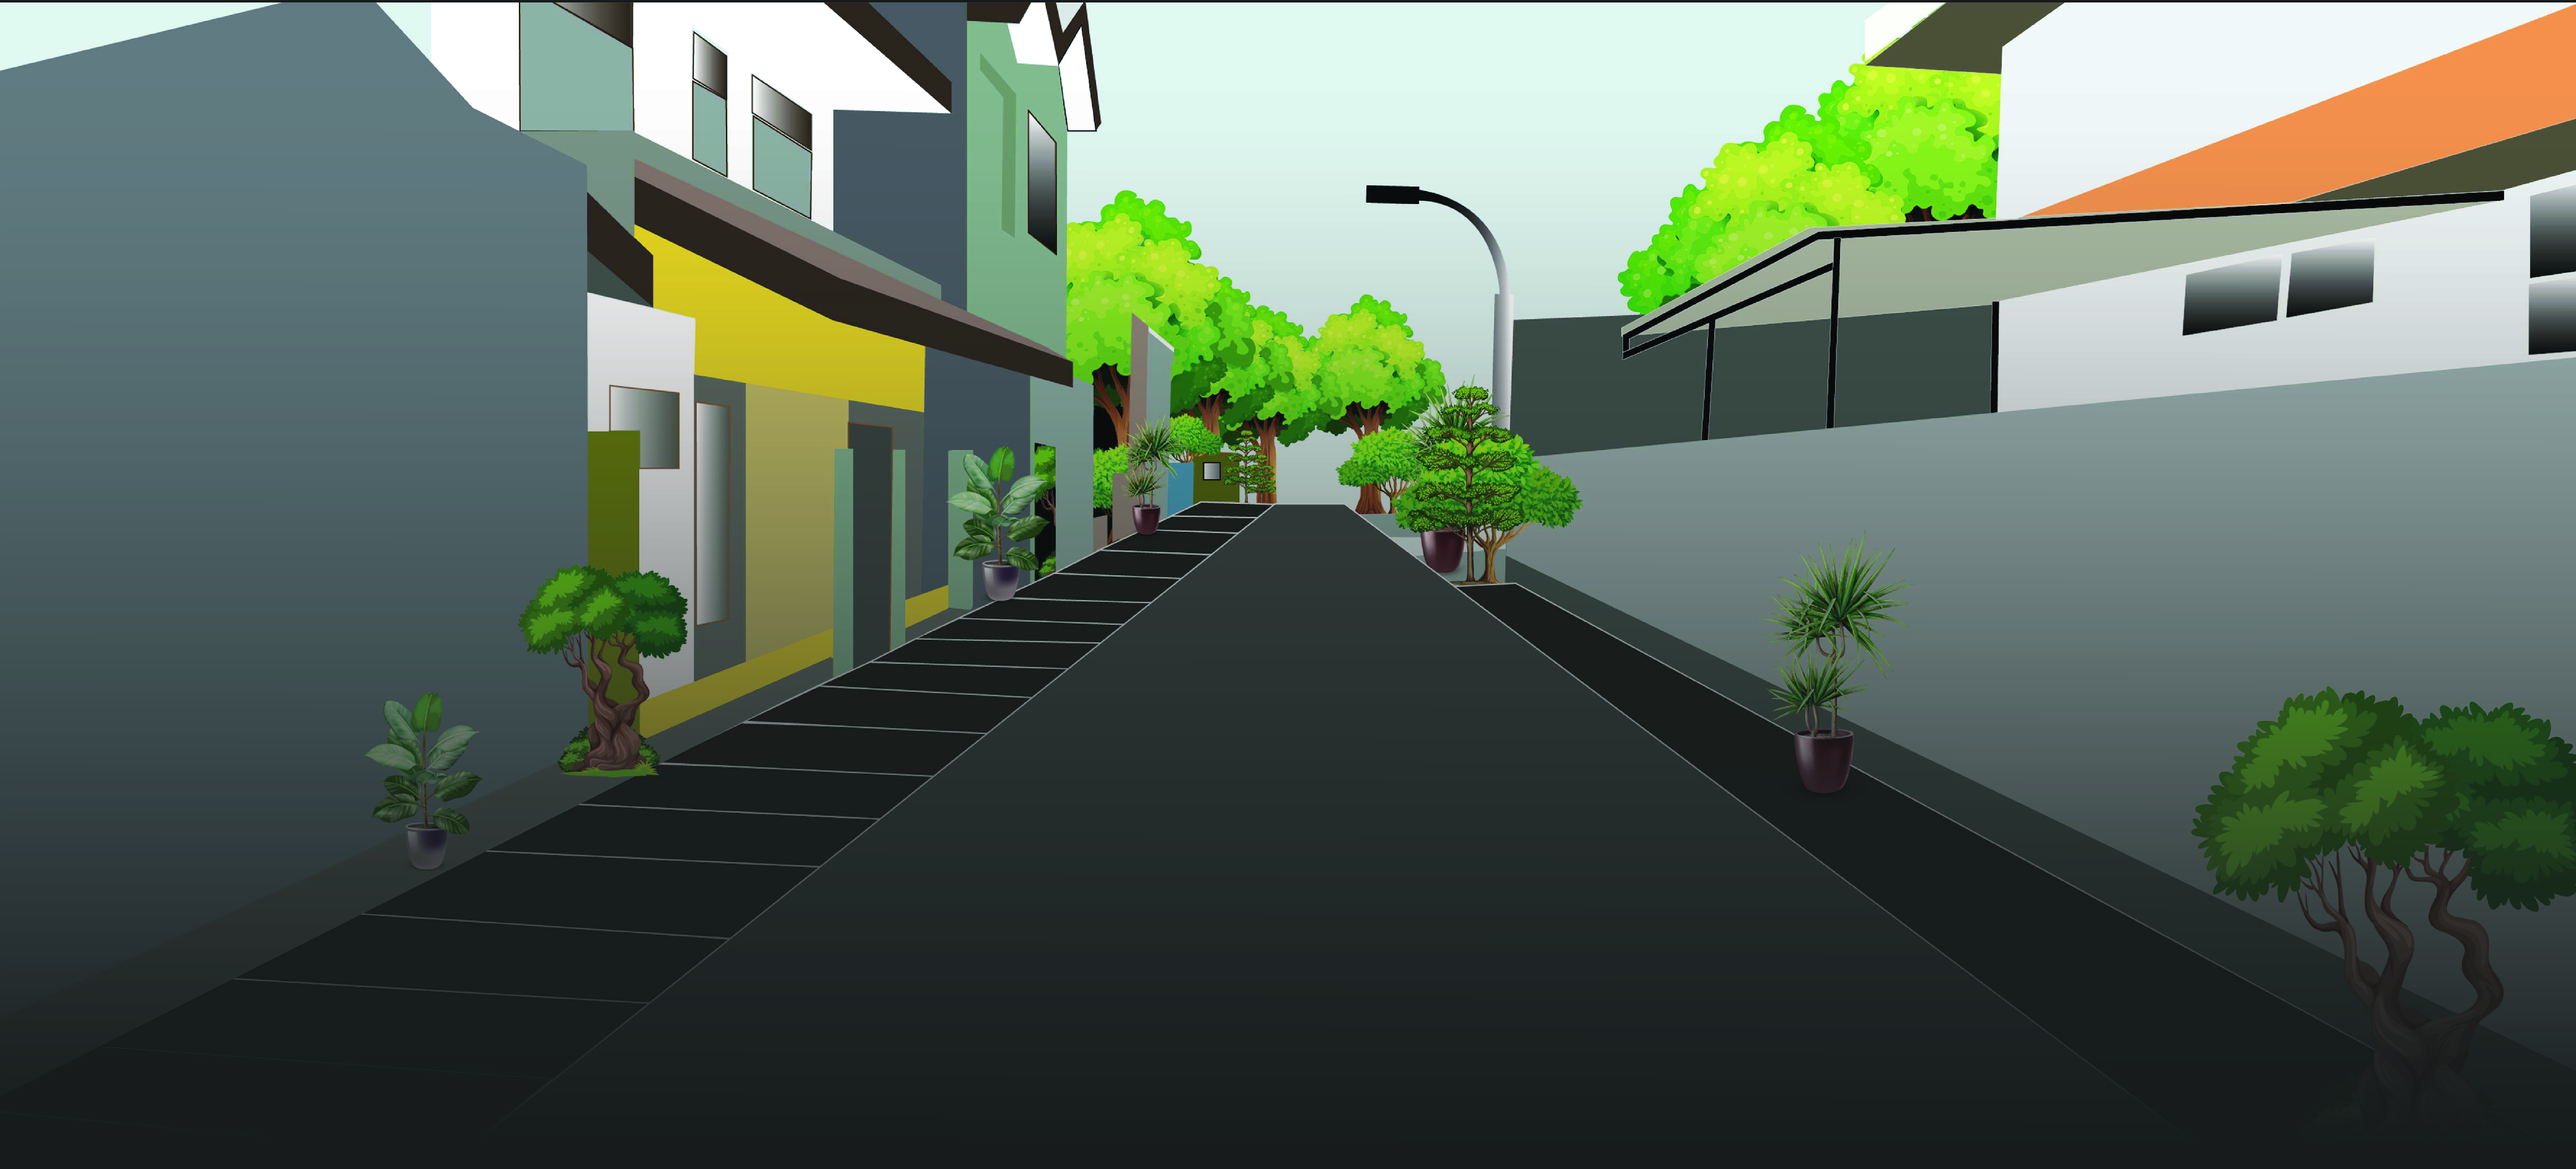
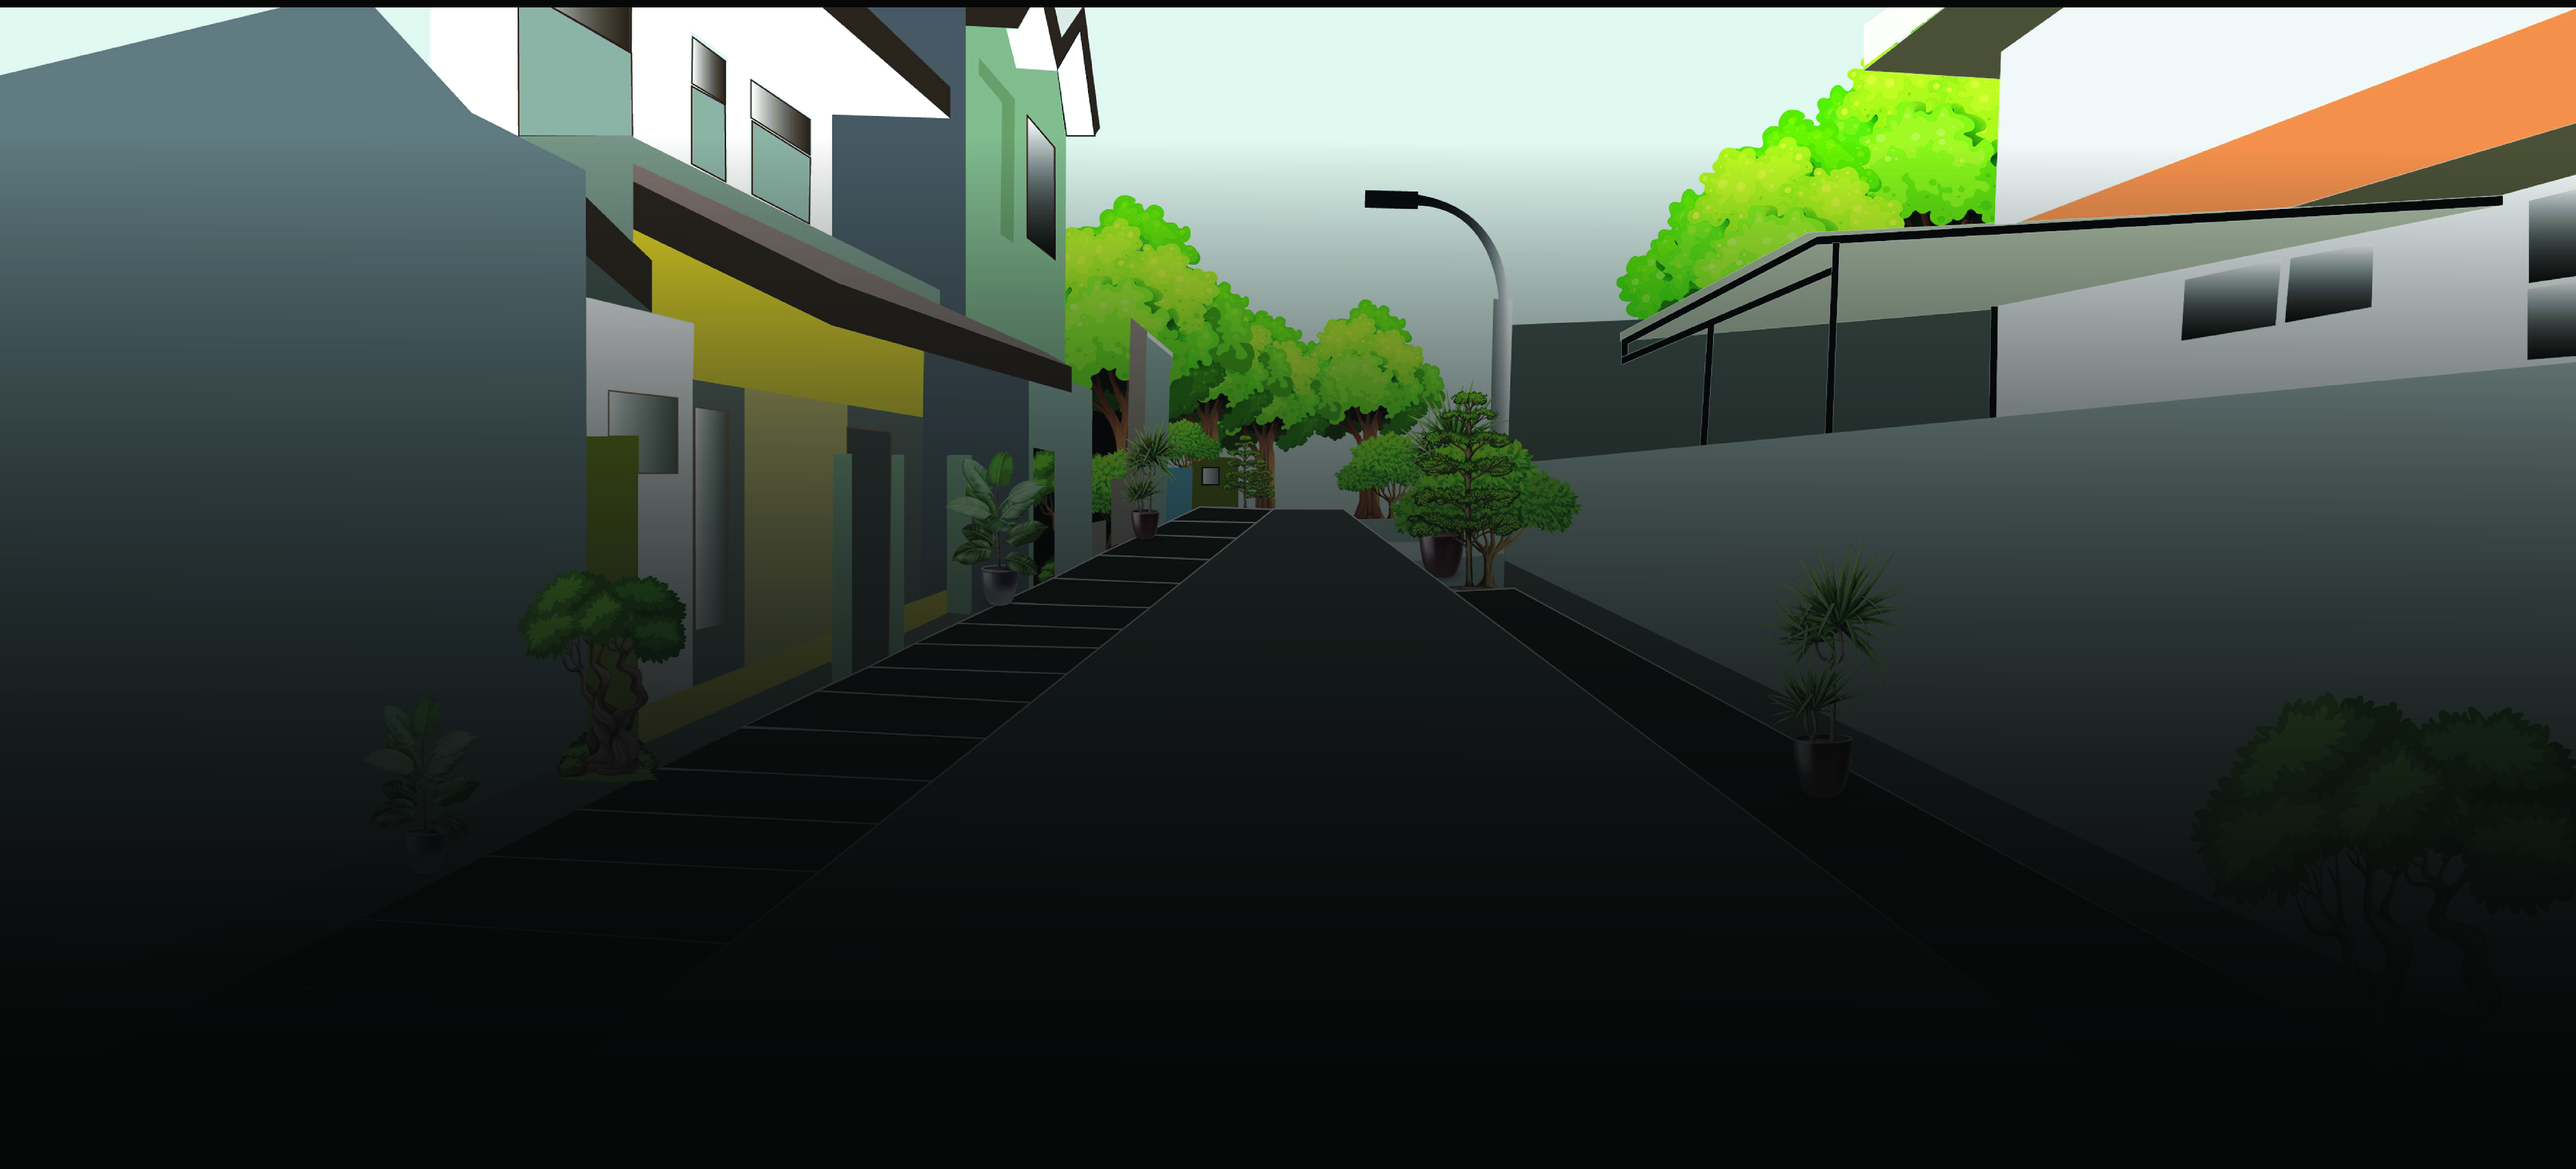
perubahan box-ctn

diff --git a/index.html b/index.html
@@ -134,16 +134,16 @@
       <img src="/img/assets/Kota-bg.jpeg" alt="" />
       <div class="slider-content">
         <h2 class="slider-title">Media 08<span> Kelapa Dua</span></h2>
-        <p class="slider-description" data-aos="zoom-in" data-aos-duration="1000" data-aos-delay="300">"Marhabat ya Ramadhan"<br> Bulan Penuh Berkah dan Ampunan</p>
-        <a class="slider-action" href="https://www.youtube.com/channel/UC41XqwNU6eP4PJdziPCVT2Q">Youtube @kosongdelapan102</a>
+        <p class="slider-description" data-aos="zoom-in" data-aos-duration="1000" data-aos-delay="300">"Marhabat ya Ramadhan<br> Bulan Penuh Berkah dan Ampunan</p>
+        <a class="slider-action" href="https://www.beritakosongdelapan.web.id/">www.beritakosongdelapan.web.id</a>
       </div>
     </div>
     <div class="slider-item">
       <img src="/img/assets/Rausin-bg.jpeg" alt="" />
       <div class="slider-content">
         <h2 class="slider-title">Media 08<span> Kelapa Dua</span></h2>
-        <p class="slider-description" data-aos="zoom-in" data-aos-duration="1000" data-aos-delay="300">Kampung Kite Kalo Bukan Kite<br> Nyang Ngurusin Siape Lagi?</p>
-        <a class="slider-action" href="https://www.youtube.com/channel/UC41XqwNU6eP4PJdziPCVT2Q">Youtube @kosongdelapan102</a>
+        <p class="slider-description" data-aos="zoom-in" data-aos-duration="1000" data-aos-delay="300">Kampung Kite Kalo Bukan Kite<br> Nyang Ngurusin Siape Lagi ?</p>
+        <a class="slider-action" href="https://docs.google.com/forms/d/1AQiVj2VR8t79Js-C5-ubOshv2Y3rsXA7bs-vF5RpsVQ/viewform?edit_requested=true">Form Pelayanan Warga RW 08</a>
       </div>
     </div>
   </div>
@@ -151,7 +151,7 @@
 
        <!-- Berita Utama start -->
        <section id="about" class="about">
-        <h2 data-aos="fade-down" data-aos-easing="linear" data-aos-duration="1500"><span>Berita</span> Utama </h2> 
+        <h2 data-aos="zoom-in" data-aos-duration="2000"><span>Berita</span> Utama </h2> 
 
         <div class="row">
         <div class="about-img">
@@ -171,7 +171,7 @@
           <br>
           </div>
           <div class="about-img">
-          <div class="row">
+          <div class="row"data-aos="zoom-in" data-aos="zoom-in" data-aos-duration="2000">
             <link rel="stylesheet" href="style.css">
             <div class="wrapper">
               <div class="slide">
@@ -179,10 +179,10 @@
                 <span id="slide-2"></span>
                 <span id="slide-3"></span>
                 <span id="slide-4"></span>
-                <div class="images"><img src="img/products/2A.jpg" alt="Berita Utama" data-aos="zoom-in" data-aos-duration="2000">
-                <img src="img/products/2B.jpg" alt="Berita Utama" data-aos="zoom-in" data-aos-duration="2000">
-                <img src="img/products/2C.jpg" alt="Berita Utama" data-aos="zoom-in"data-aos="zoom-in" data-aos-duration="2000">
-                <img src="img/products/2D.jpg" alt="Berita Utama" data-aos="zoom-in" data-aos="zoom-in" data-aos-duration="2000">
+                <div class="images"><img src="img/products/2A.jpg" alt="Berita Utama">
+                <img src="img/products/2B.jpg" alt="Berita Utama">
+                <img src="img/products/2C.jpg" alt="Berita Utama">
+                <img src="img/products/2D.jpg" alt="Berita Utama">
             </div>
           </div>
               
@@ -491,7 +491,6 @@
             <a href="https://www.instagram.com/beritakosongdelapan/"><i data-feather="instagram"></i></a>
             <a href="https://www.youtube.com/channel/UC41XqwNU6eP4PJdziPCVT2Q"><i data-feather="youtube"></i></a>
             <a href="https://www.facebook.com/syariphi102/"><i data-feather="facebook"></i></a>
-            <a href="https://docs.google.com/forms/d/1AQiVj2VR8t79Js-C5-ubOshv2Y3rsXA7bs-vF5RpsVQ/viewform?edit_requested=true"><i data-feather="book-open"></i></a>
 
           </div>
     

diff --git a/css/style.css b/css/style.css
@@ -231,14 +231,14 @@ body {
   object-fit: cover;
 }
 
-.slider-container::after {
+/*.slider-container::after {
   content: '';
   display: block;
   position: absolute;
   width: 100%;
   height: 100%;
   background: linear-gradient(0deg, rgba(1, 1, 3, 1) 8%, rgba(255, 255, 255, 0) 25%);
-}
+}*/
 
 .slider-item .slider-content {
   position: absolute;
@@ -271,7 +271,7 @@ text-shadow: 1px 1px 3px rgba(1, 1, 3, 0.5);
 
 
 .slider-content .slider-action {
-  color: white;
+  color: red;
   border: 0.5px solid white;
   padding: 0.5rem 1.5rem;
   font-size: 1.1rem;
@@ -822,14 +822,14 @@ footer .credit a {
 /* Media Queries */
 /* Laptop */
 @media (max-width: 1366px) {
-  .html {
+  html {
     font-size: 75%;
   }
 }
 
 /* Tablet */
 @media (max-width: 758px) {
- .html {
+ html {
     font-size: 62.5%;
   }
 
